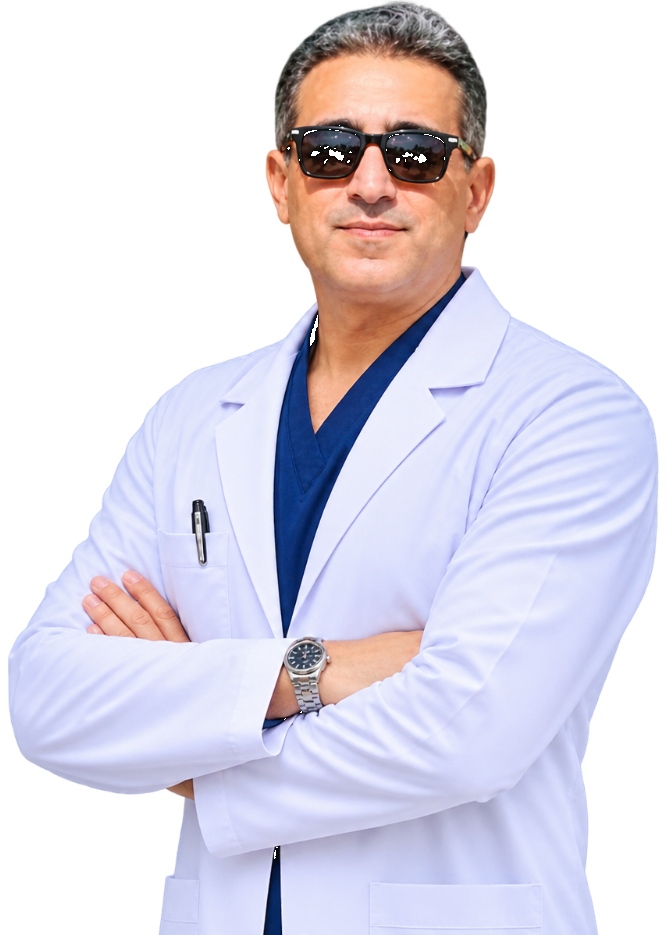
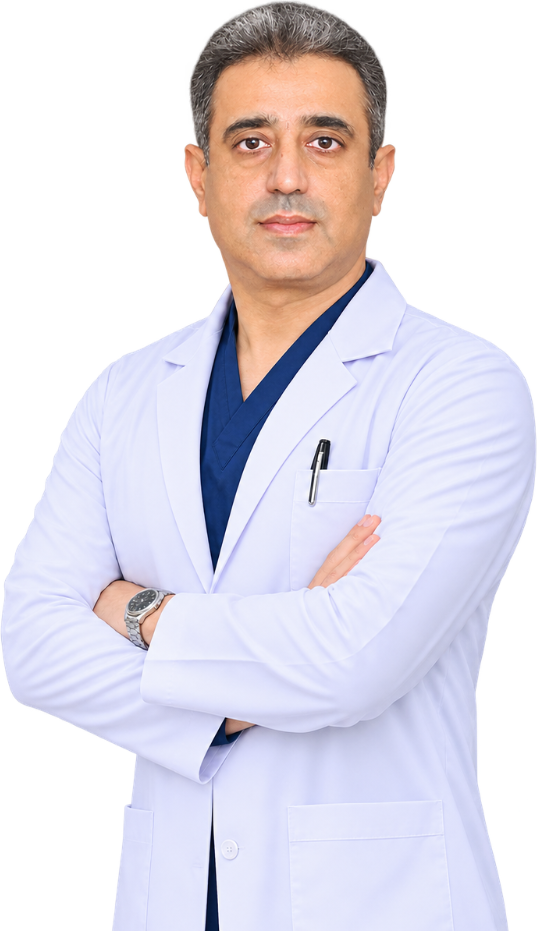
Use flipped full-body doctor photo in About arch frames.

diff --git a/components/home/AboutPreview.tsx b/components/home/AboutPreview.tsx
@@ -119,21 +119,19 @@ export default function AboutPreview() {
           <Reveal>
             <div className="relative mx-auto w-full max-w-[160px] min-[400px]:max-w-[180px] sm:max-w-[220px]">
               <div
-                className="absolute -inset-x-2 -bottom-3 top-8 rounded-[1.5rem] bg-gold-gradient opacity-90 shadow-gold sm:-inset-x-3 sm:top-10"
+                className="absolute inset-x-0 -bottom-3 top-6 rounded-t-[999px] rounded-b-[1.25rem] bg-gold-gradient opacity-90 shadow-gold sm:top-8"
                 aria-hidden
               />
               <div className="relative overflow-hidden rounded-t-[999px] rounded-b-[1.25rem] border-[4px] border-cream bg-cream shadow-soft sm:border-[5px]">
-                <div className="relative aspect-[3/4]">
-                  <div className="absolute inset-x-2 bottom-0 top-8 sm:inset-x-3 sm:top-10">
-                    <Image
-                      src={doctor.aboutPortrait.src}
-                      alt={doctor.aboutPortrait.alt}
-                      title={doctor.aboutPortrait.alt}
-                      fill
-                      className="object-contain object-bottom"
-                      sizes="180px"
-                    />
-                  </div>
+                <div className="relative aspect-[3/4] overflow-hidden bg-cream">
+                  <Image
+                    src={doctor.aboutPortrait.src}
+                    alt={doctor.aboutPortrait.alt}
+                    title={doctor.aboutPortrait.alt}
+                    fill
+                    className="object-cover object-center"
+                    sizes="180px"
+                  />
                 </div>
               </div>
             </div>
@@ -162,21 +160,19 @@ export default function AboutPreview() {
           <Reveal>
             <div className="relative mx-auto w-full max-w-md lg:mx-0">
               <div
-                className="absolute -inset-x-6 -bottom-4 top-10 rounded-[2rem] bg-gold-gradient opacity-90 shadow-gold"
+                className="absolute inset-x-0 -bottom-4 top-8 rounded-t-[999px] rounded-b-[1.75rem] bg-gold-gradient opacity-90 shadow-gold"
                 aria-hidden
               />
               <div className="relative overflow-hidden rounded-t-[999px] rounded-b-[1.75rem] border-[6px] border-cream bg-cream shadow-soft">
-                <div className="relative aspect-[3/4]">
-                  <div className="absolute inset-x-4 bottom-0 top-12">
-                    <Image
-                      src={doctor.aboutPortrait.src}
-                      alt={doctor.aboutPortrait.alt}
-                      title={doctor.aboutPortrait.alt}
-                      fill
-                      className="object-contain object-bottom"
-                      sizes="420px"
-                    />
-                  </div>
+                <div className="relative aspect-[3/4] overflow-hidden bg-cream">
+                  <Image
+                    src={doctor.aboutPortrait.src}
+                    alt={doctor.aboutPortrait.alt}
+                    title={doctor.aboutPortrait.alt}
+                    fill
+                    className="object-cover object-center"
+                    sizes="420px"
+                  />
                 </div>
               </div>
             </div>

diff --git a/components/about/AboutProfile.tsx b/components/about/AboutProfile.tsx
@@ -15,22 +15,20 @@ export default function AboutProfile() {
         <Reveal>
           <div className="relative mx-auto w-full max-w-[min(100%,28rem)] px-1 lg:mx-0 lg:px-0">
             <div
-              className="absolute -inset-x-2 -bottom-4 top-10 rounded-[2rem] bg-gold-gradient opacity-90 shadow-gold sm:-inset-x-4 md:-inset-x-6"
+              className="absolute inset-x-0 -bottom-4 top-8 rounded-t-[999px] rounded-b-[1.75rem] bg-gold-gradient opacity-90 shadow-gold"
               aria-hidden
             />
             <div className="relative overflow-hidden rounded-t-[999px] rounded-b-[1.75rem] border-[6px] border-cream bg-cream shadow-soft">
-              <div className="relative aspect-[3/4]">
-                <div className="absolute inset-x-3 bottom-0 top-10 md:inset-x-4 md:top-12">
-                  <Image
-                    src={doctor.aboutPortrait.src}
-                    alt={doctor.aboutPortrait.alt}
-                    title={doctor.aboutPortrait.alt}
-                    fill
-                    priority
-                    className="object-contain object-bottom"
-                    sizes="(max-width: 1024px) 90vw, 420px"
-                  />
-                </div>
+              <div className="relative aspect-[3/4] overflow-hidden bg-cream">
+                <Image
+                  src={doctor.aboutPortrait.src}
+                  alt={doctor.aboutPortrait.alt}
+                  title={doctor.aboutPortrait.alt}
+                  fill
+                  priority
+                  className="object-cover object-center"
+                  sizes="(max-width: 1024px) 90vw, 420px"
+                />
               </div>
             </div>
           </div>

diff --git a/data/doctor.ts b/data/doctor.ts
@@ -32,10 +32,10 @@ export const doctor = {
   ],
   portrait: {
     src: "/images/doctor-cutout.png",
-    alt: "Dr. Khawar Iqbal Gondal, Laparoscopic and General Surgeon, in white coat and sunglasses",
+    alt: "Dr. Khawar Iqbal Gondal, Laparoscopic and General Surgeon, in white coat with arms crossed",
   },
   aboutPortrait: {
-    src: "/images/doctor-about.png",
+    src: "/images/doctor-about-frame.jpg",
     alt: "Dr. Khawar Iqbal Gondal, Laparoscopic and General Surgeon",
   },
   hero: {
